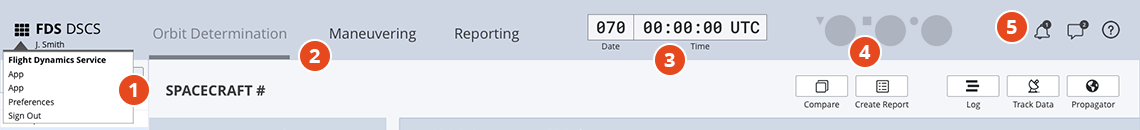
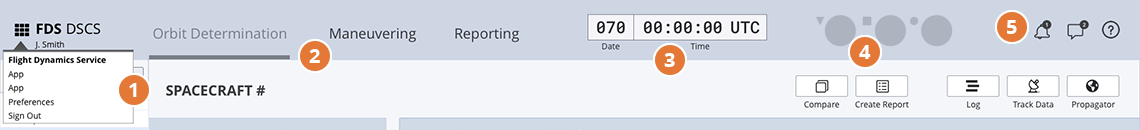
Updated images from Daniel
Fixes the background color variance

diff --git a/_content/fd-service-ux-design/about-the-fd-designs.md b/_content/fd-service-ux-design/about-the-fd-designs.md
@@ -1,6 +1,6 @@
 ---
 tags: ['flight dynamics', 'egs']
-path: /flight-dynamics-service-ux-design/flight-dynamics-designs
+path: /fd-service-ux-design/about-the-fd-designs
 date: Last Modified
 layout: interior.template.njk
 title: Flight Dynamics Service
@@ -12,6 +12,11 @@ The FDS system supports missions that require communication between satellites a
 
 - [FDS_Specifications.PDF](Download)
 - [FDS_Wireframes.PDF](Download)
+
+<video controls width="100%">
+		<source src="http://com.rocketcom.astrouxds.s3.us-west-2.amazonaws.com/media/fds-video.mp4" type="video/mp4">
+		<source src="http://com.rocketcom.astrouxds.s3.us-west-2.amazonaws.com/media/fds-video.webm" type="video/webm">
+</video>
 
 **Orbit Determination**:
 
@@ -137,7 +142,7 @@ The properties pane displays various attributes an operator may expect to see wh
 #### Inputs
 
 :::two-col
-![Inputs wireframe](/img/service-specific-ux-design/fds-inputs-pane.png)
+![Inputs wireframe](/img/service-specific-ux-design/fds-inputs.png)
 :::col
 
 The inputs pane houses the initial input files required in order to run an orbit determination.
@@ -154,7 +159,7 @@ The inputs pane houses the initial input files required in order to run an orbit
 
 :::two-col
 
-![Outputs wireframe](/img/service-specific-ux-design/fds-outputs-pane.png)
+![Outputs wireframe](/img/service-specific-ux-design/fds-outputs.png)
 :::col
 
 The outputs pane houses the required output files and products for a scenario.
@@ -167,7 +172,7 @@ The outputs pane houses the required output files and products for a scenario.
 
 The data display is a multi-functional output view of an orbit determination.
 
-![Data Display wireframe](/img/service-specific-ux-design/fds-data-display.png)
+![Data Display wireframe](/img/service-specific-ux-design/fds-log-utility.png)
 
 1. **Notification Banner** - the notification banner shows the status for the latest/last orbit determination that was initiated.
 2. **Deviation Count** - the deviation count shows the total number of deviations (violations of the standard deviation  found in the OD Results.
@@ -195,7 +200,7 @@ The Utility Tool Kit is a collection of contextual utilities for accessing secon
 
 The Log Utility shows a log of application and system messages. Usage and functionality of this utility is mission-agnostic based on what is most valuable to the operator/mission.
 
-![Log Utility wireframe](/img/service-specific-ux-design/fds-log-utility.png)
+![Log Utility wireframe](/img/service-specific-ux-design/fds-utility-tool-kit.png)
 
 1. **Tabs** - allows for more than view or category of log messages.
 2. **Control Buttons** - Triggers a slide in pane that allows the operator control over the event log display.
@@ -208,7 +213,7 @@ The Track Data Utility is an identified secondary task flow an operator would ex
 
 #### Track Data Utility: Select Raw Tracking Files
 
-![Track Data Utility wireframe](/img/service-specific-ux-design/fds-raw-tracking-files.png)
+![Track Data Utility wireframe](/img/service-specific-ux-design/fds-track-data-utility-raw-track.png)
 
 1. **File List** - displays a table list of raw tracking data.
 2. **Edit Track File Button** - allows operator to edit/remove data from a track file.
@@ -218,7 +223,7 @@ The Track Data Utility is an identified secondary task flow an operator would ex
 
 #### Track Data Utility: Filter Data
 
-![Fitler Data Utility wireframe](/img/service-specific-ux-design/fds-filter-data.png)
+![Fitler Data Utility wireframe](/img/service-specific-ux-design/fds-track-data-utility-filter.png)
 
 1. **Data Display Segmented Button** - allows operator to change views from tabular data to a visual data display to view individual track data points.
 2. **Track Data Contextual Information** - clicking on an individual plot data instance will show additional information or actions associated with the track data. An example would be what ground station the track data point is from as well as the date/time of the impression and it’s elevation numerical data.
@@ -234,7 +239,7 @@ The Propagator Utility is an identified secondary task flow an operator would ex
 
 #### Input Source
 
-![Input Source wireframe](/img/service-specific-ux-design/fds-input-source.png)
+![Input Source wireframe](/img/service-specific-ux-design/fds-prpagator-utility-input.png)
 
 1. **Source Settings**- allows an operator to select an orbit source and an input file for generating the ephemeris or TLE file.
 2. **Epoch Settings** - allows operator to set an epoch in the orbit source.
@@ -244,7 +249,7 @@ The Propagator Utility is an identified secondary task flow an operator would ex
 
 #### View Orbit
 
-![View Orbit wireframe](/img/service-specific-ux-design/fds-view-orbit.png)
+![View Orbit wireframe](/img/service-specific-ux-design/fds-propagator-utility-orbit.png)
 
 1. **Orbit Visualization Segmented Button** - allows an operator to switch between a tabular data view and a orbit visualization with the applied orbit source and settings.
 2. **Orbit Data Display** - displays in 2D/3D the orbit track with the applied orbit source and settings as well as a play button to run the simulation.
